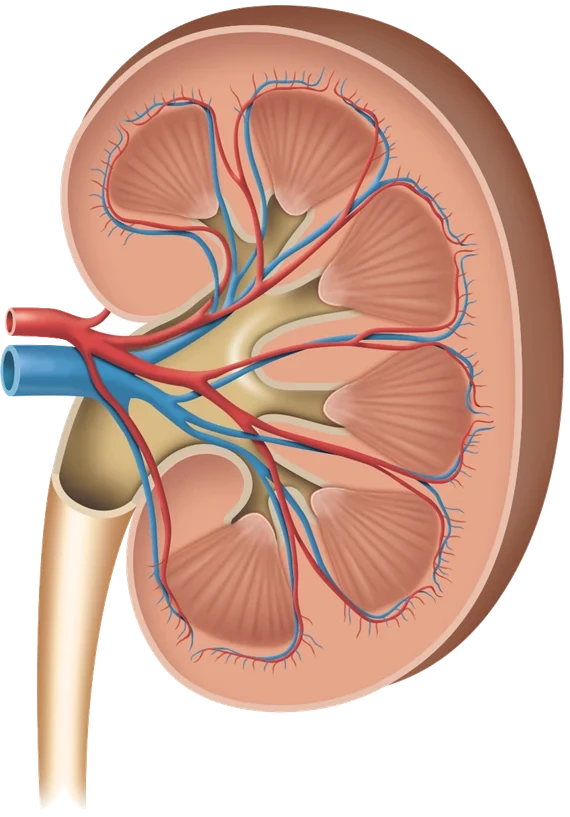
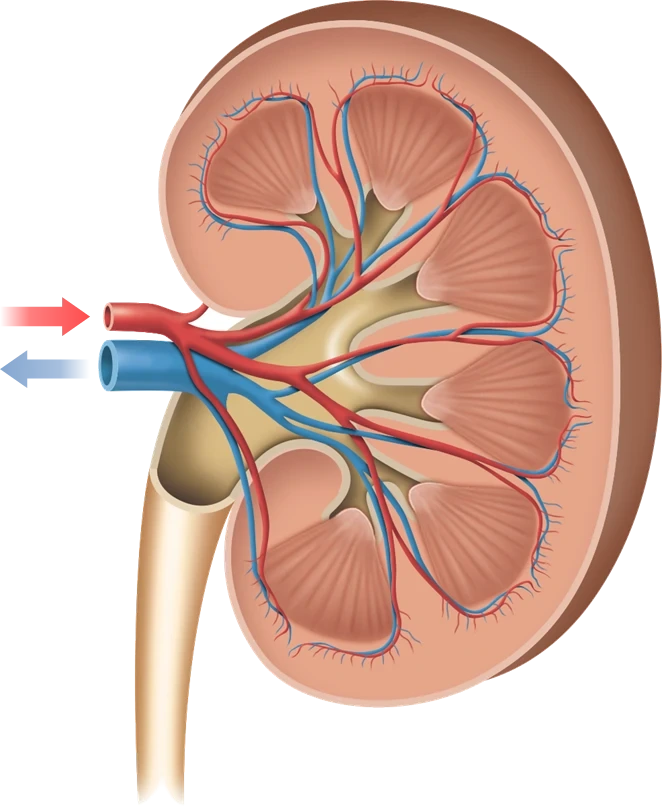
배설계의 구조: 콩팥 단면 그림을 새 교과서 그림으로 교체
Claude-Session: https://claude.ai/code/session_01Qbjk7rmnotAmG6Ho2mfM4B

diff --git a/kidney/scenes.js b/kidney/scenes.js
@@ -16,11 +16,11 @@ export const SCENES = [
     slots: { kidney: ['left', 0.22], ureter: ['right', 0.5], bladder: ['right', 0.8], urethra: ['left', 0.92] },
   },
   { // 2단계: 콩팥 단면 (노란 고리 = 네프론이 있는 곳)
-    viewBox: vb(570, 817), pad: [250, 250],
-    svg: img('section.webp', 570, 817) + `
-      <circle cx="486" cy="318" r="14" fill="none" stroke="#ffd43b" stroke-width="5"><animate attributeName="r" values="12;16;12" dur="1.4s" repeatCount="indefinite"/></circle>`,
-    anchors: { artery: [24, 320], vein: [18, 372], ureter2: [62, 680], nephron: [486, 318] },
-    slots: { artery: ['left', 0.36], vein: ['left', 0.52], ureter2: ['left', 0.84], nephron: ['right', 0.3] },
+    viewBox: vb(662, 812), pad: [250, 250],
+    svg: img('section.webp', 662, 812) + `
+      <circle cx="580" cy="296" r="22" fill="none" stroke="#ffd43b" stroke-width="6"><animate attributeName="r" values="19;25;19" dur="1.4s" repeatCount="indefinite"/></circle>`,
+    anchors: { artery: [122, 316], vein: [118, 366], ureter2: [172, 660], nephron: [580, 296] },
+    slots: { artery: ['left', 0.3], vein: ['left', 0.5], ureter2: ['left', 0.84], nephron: ['right', 0.36] },
   },
   { // 3단계: 네프론
     viewBox: vb(1155, 1090), pad: [270, 10],
